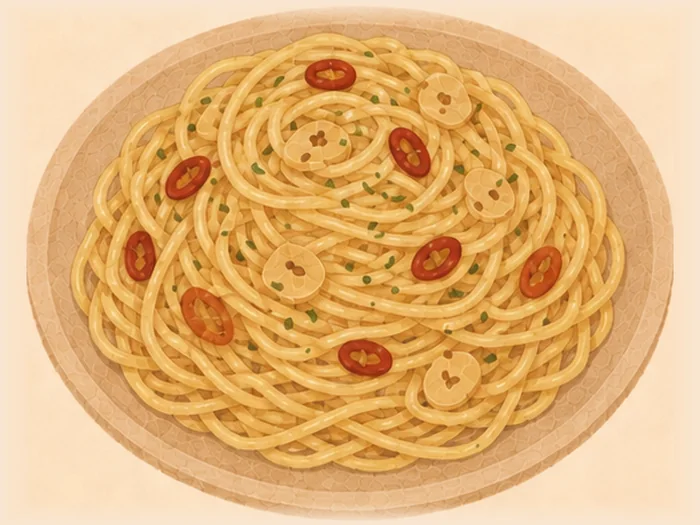
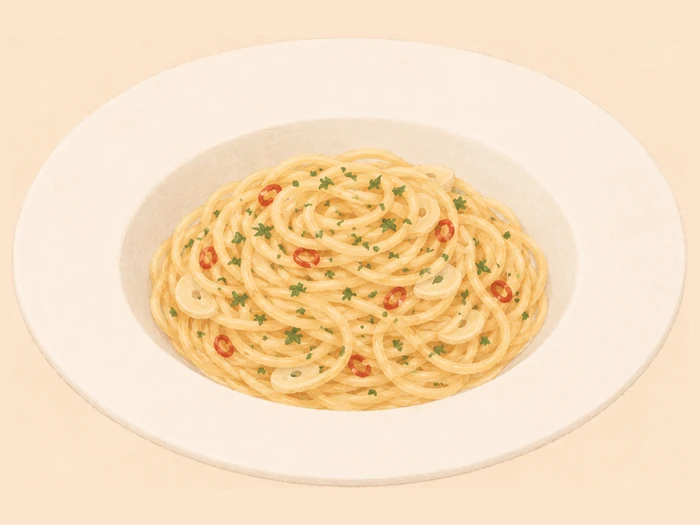
r3 蒜香麵改用義式深盤
使用者定的：西餐系列全部改用義大利餐廳那種 rimmed pasta bowl ——
中間深井、寬盤緣往外斜，菜收在井裡，盤緣整圈留白。
上一版寫「broad flat rim」被畫成中式淺盤，井太淺、菜滿到邊。
有效的寫法是同時給正反例：deep round WELL + 明講 not a shallow flat
dish / not a Chinese-style plate，再加一句「食物只佔盤寬 55%」。

⚠ 好吃感不是來自食物畫得更細，是來自盤緣那圈留白 —— 份量沒變，
被白圈框起來就從「裝滿一碗」變成「餐廳出的一份」。

## 裁切腳本兩個改動

1. tol 18 -> 8。白盤跟奶油底色只差 18 階，原本的門檻正好把整個盤子
   排除在遮罩外，最大連通區塊只框到麵，盤子被切光。
2. 長寬比 > 1.4 改成整個放進去，不再照高度撐。木碗那批（1.27–1.34）
   兩側切掉沒差，但這種盤子切掉的正是盤緣留白，等於白換。

ASSETS 42 -> 43（r3 是既有食譜，換圖一定要清快取）

diff --git a/index.html b/index.html
@@ -753,7 +753,7 @@ ol.steps li::before {
    ══════════════════════════════════════════════ */
 
 /* 素材版本。換過圖就 bump 一次，否則瀏覽器會一直用舊的快取 */
-const ASSETS = '42';
+const ASSETS = '43';
 const asset = p => p + '?v=' + ASSETS;
 
 const $ = (s, el = document) => el.querySelector(s);
